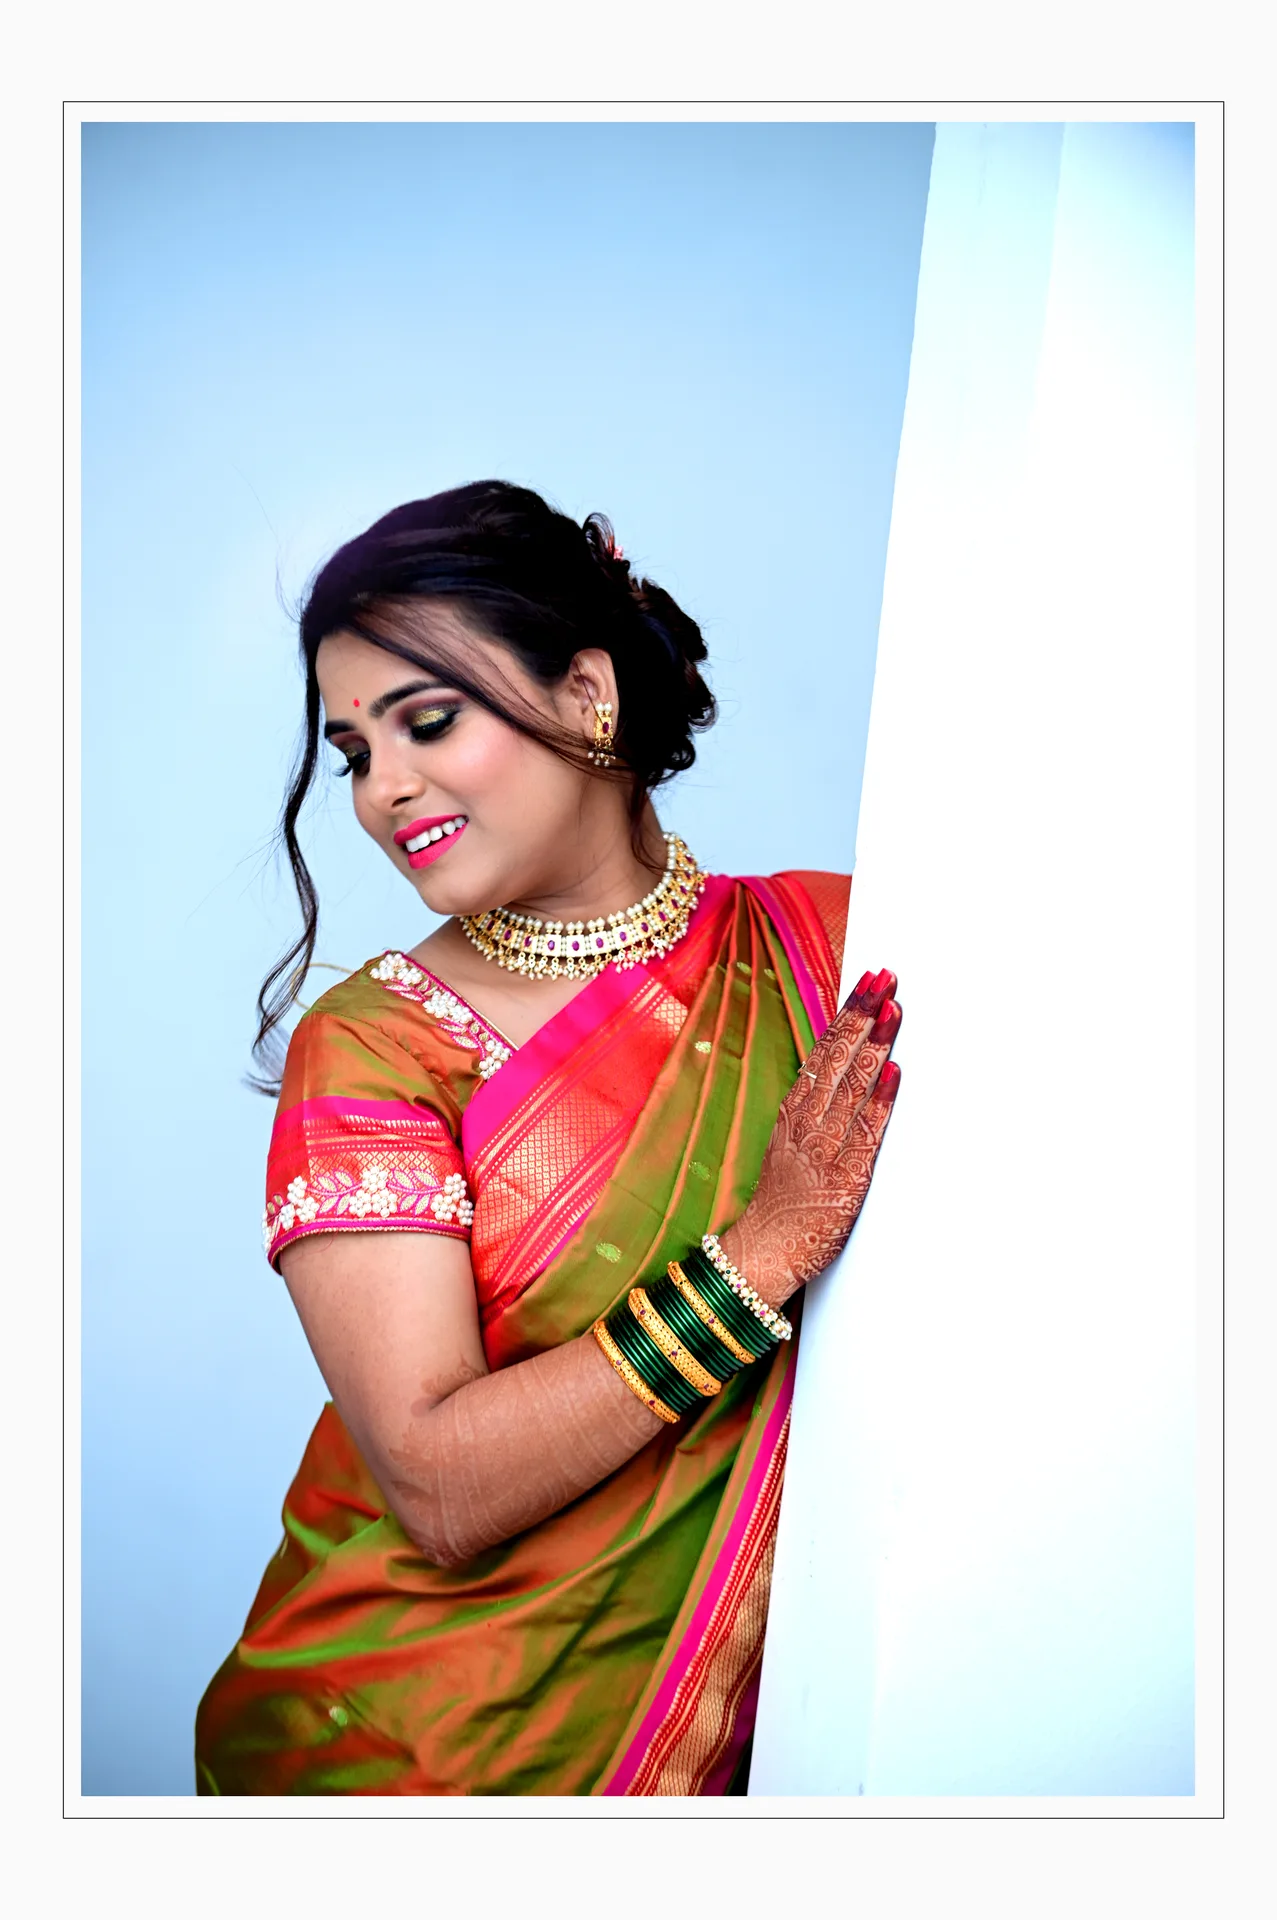
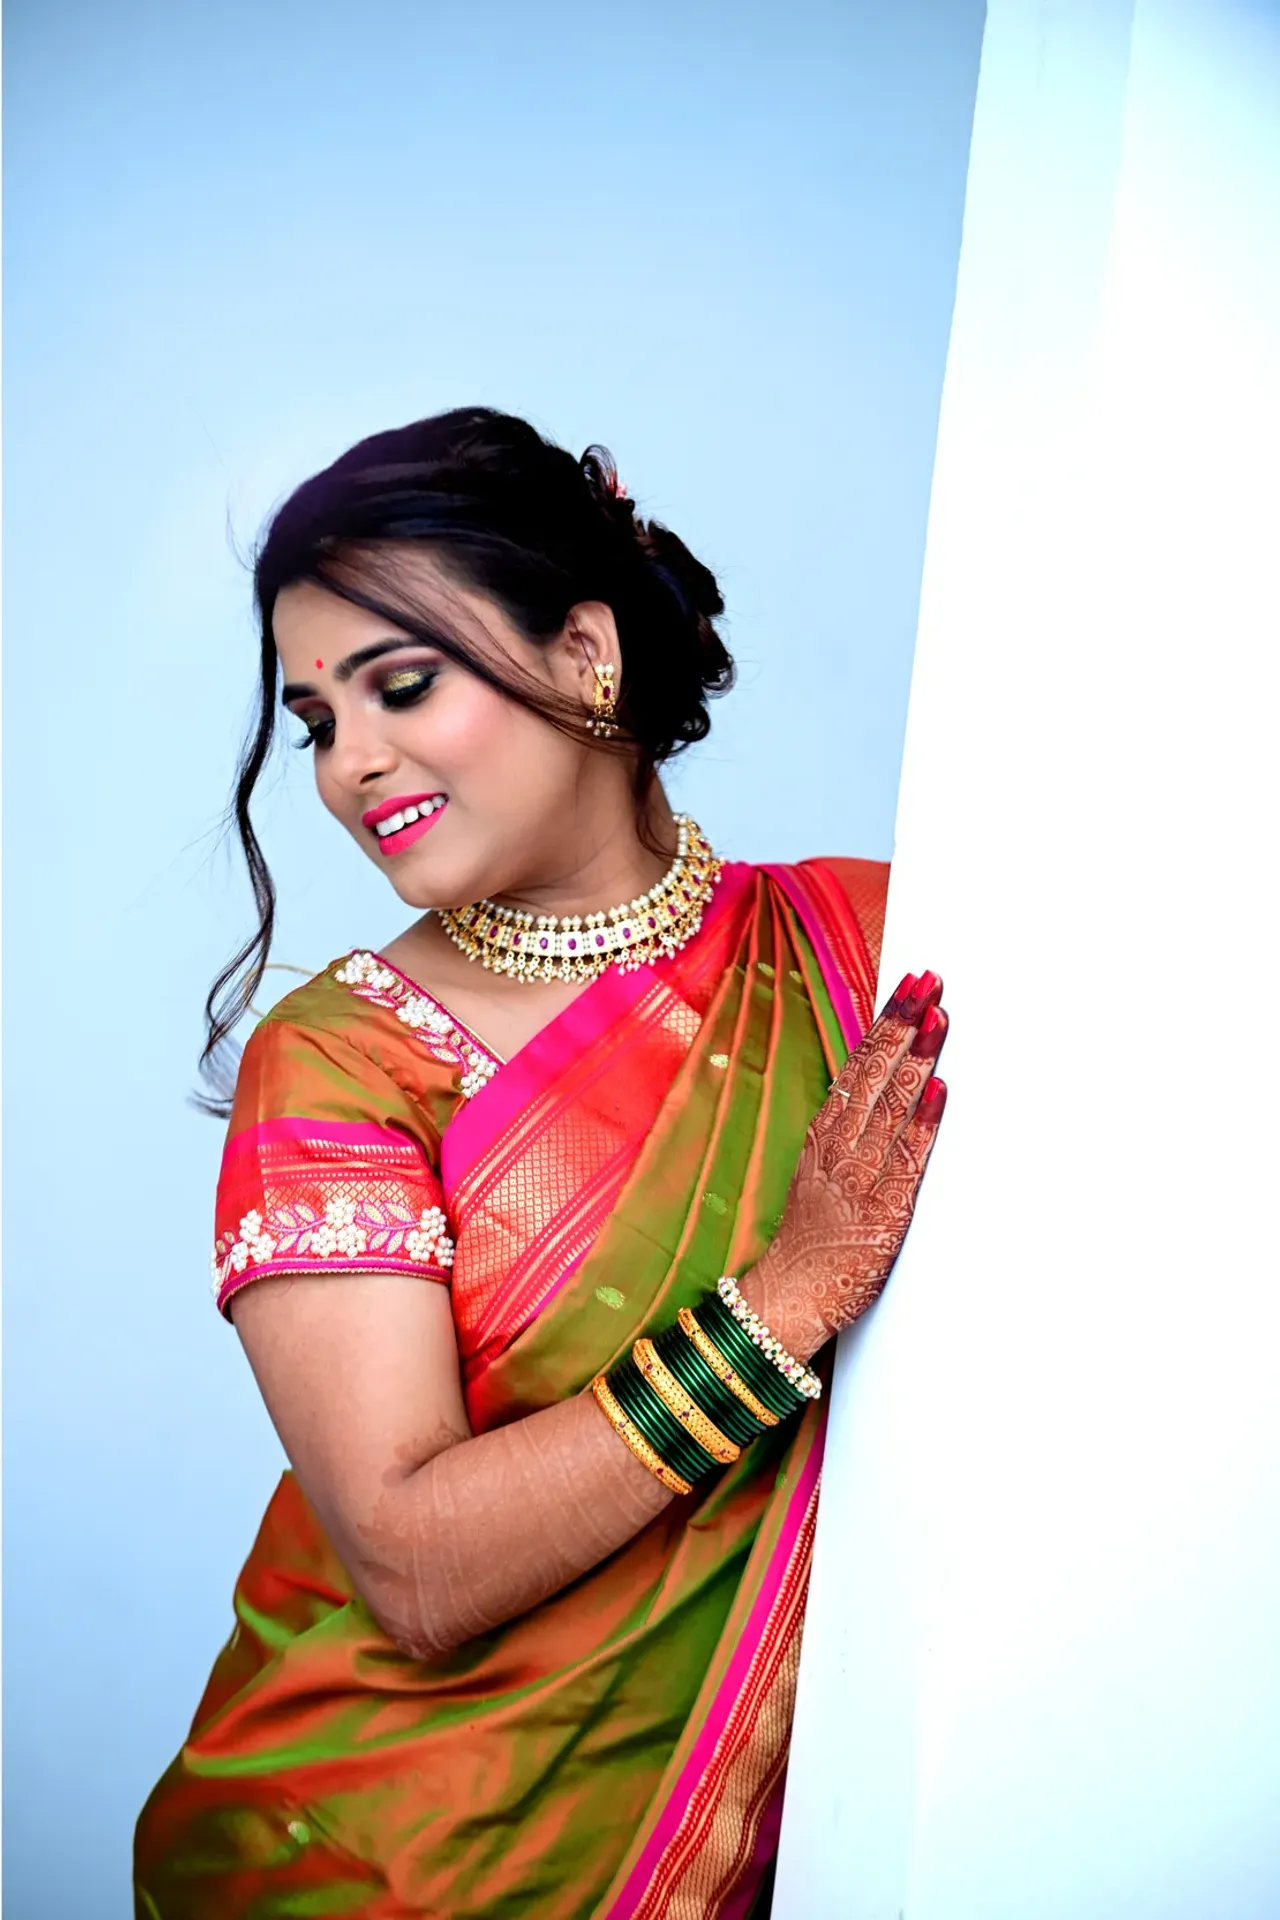
fix(services): eliminate open tint gap with edge vignettes and crop white frame from bridal image

diff --git a/src/pages/HomePage.jsx b/src/pages/HomePage.jsx
@@ -495,23 +495,32 @@ export default function HomePage() {
                     onClick={(e) => {
                       if (servicesMovedRef.current) e.preventDefault();
                     }}
-                    className="group relative aspect-[3/4] sm:aspect-[4/5] md:aspect-[3/4] rounded-none overflow-hidden bg-black border-0 border-transparent outline-none ring-0 shadow-none hover:border-0 hover:outline-none hover:ring-0 hover:shadow-none transition-all duration-500 flex flex-col justify-between p-6 sm:p-8 cursor-pointer select-none block h-full"
+                    className="group relative aspect-[3/4] sm:aspect-[4/5] md:aspect-[3/4] rounded-none overflow-hidden bg-black border-0 border-transparent outline-none ring-0 shadow-none hover:border-0 hover:outline-none hover:ring-0 hover:shadow-none transition-all duration-500 flex flex-col justify-between p-6 sm:p-8 cursor-pointer select-none block h-full [transform:translateZ(0)] [-webkit-mask-image:-webkit-radial-gradient(white,black)]"
                     style={{ isolation: 'isolate' }}
                   >
-                    {/* Background Image with subtle zoom on hover - 100% natural, vibrant, zero tint */}
-                    <img
-                      src={svc.image}
-                      alt={svc.title}
-                      draggable="false"
-                      className="absolute -inset-[1px] w-[calc(100%+2px)] h-[calc(100%+2px)] max-w-none object-cover object-center group-hover:scale-105 transition-transform duration-700 ease-out select-none pointer-events-none"
-                      loading="lazy"
-                    />
+                    {/* Background Image with subtle zoom on hover (contained at z-0) */}
+                    <div className="absolute inset-0 overflow-hidden pointer-events-none z-0">
+                      <img
+                        src={svc.image}
+                        alt={svc.title}
+                        draggable="false"
+                        className="w-full h-full object-cover object-center group-hover:scale-105 transition-transform duration-700 ease-out select-none pointer-events-none"
+                        loading="lazy"
+                      />
+                    </div>
 
-                    {/* Clean localized bottom gradient strictly behind text for readability — zero tint over couple or photography */}
-                    <div className="absolute -inset-x-2 bottom-0 h-[50%] bg-gradient-to-t from-black via-black/85 via-black/40 to-transparent pointer-events-none z-0" />
+                    {/* Left & Right Edge Vignettes: Seamlessly seal sides with black so tint is never open on edges */}
+                    <div className="absolute inset-y-0 left-0 w-8 sm:w-12 bg-gradient-to-r from-black via-black/40 to-transparent pointer-events-none z-10" />
+                    <div className="absolute inset-y-0 right-0 w-8 sm:w-12 bg-gradient-to-l from-black via-black/40 to-transparent pointer-events-none z-10" />
+
+                    {/* Top Scrim: Soft dark fade behind category badge and number */}
+                    <div className="absolute inset-x-0 top-0 h-20 bg-gradient-to-b from-black/75 via-black/30 to-transparent pointer-events-none z-10" />
+
+                    {/* Bottom Scrim: Smooth deep gradient strictly behind text for readability */}
+                    <div className="absolute inset-x-0 bottom-0 h-[58%] bg-gradient-to-t from-black via-black/85 via-black/40 to-transparent pointer-events-none z-10" />
 
                     {/* Card Top: Number & Category Badge (Border-free clean design) */}
-                    <div className="relative z-10 flex items-center justify-between select-none">
+                    <div className="relative z-20 flex items-center justify-between select-none">
                       <span className="text-[10px] font-mono tracking-[0.25em] uppercase text-white/90 bg-black/60 px-2.5 py-1 border-0 outline-none backdrop-blur-md">
                         {svc.badge}
                       </span>
@@ -521,7 +530,7 @@ export default function HomePage() {
                     </div>
 
                     {/* Card Bottom: Typography & CTA with enhanced contrast */}
-                    <div className="relative z-10 space-y-2 select-none">
+                    <div className="relative z-20 space-y-2 select-none">
                       <h3 
                         className="text-2xl sm:text-[1.75rem] font-normal text-white uppercase tracking-wider leading-snug drop-shadow-[0_2px_8px_rgba(0,0,0,0.95)]"
                         style={{ fontFamily: "'Cormorant Garamond', 'Playfair Display', Georgia, serif" }}
